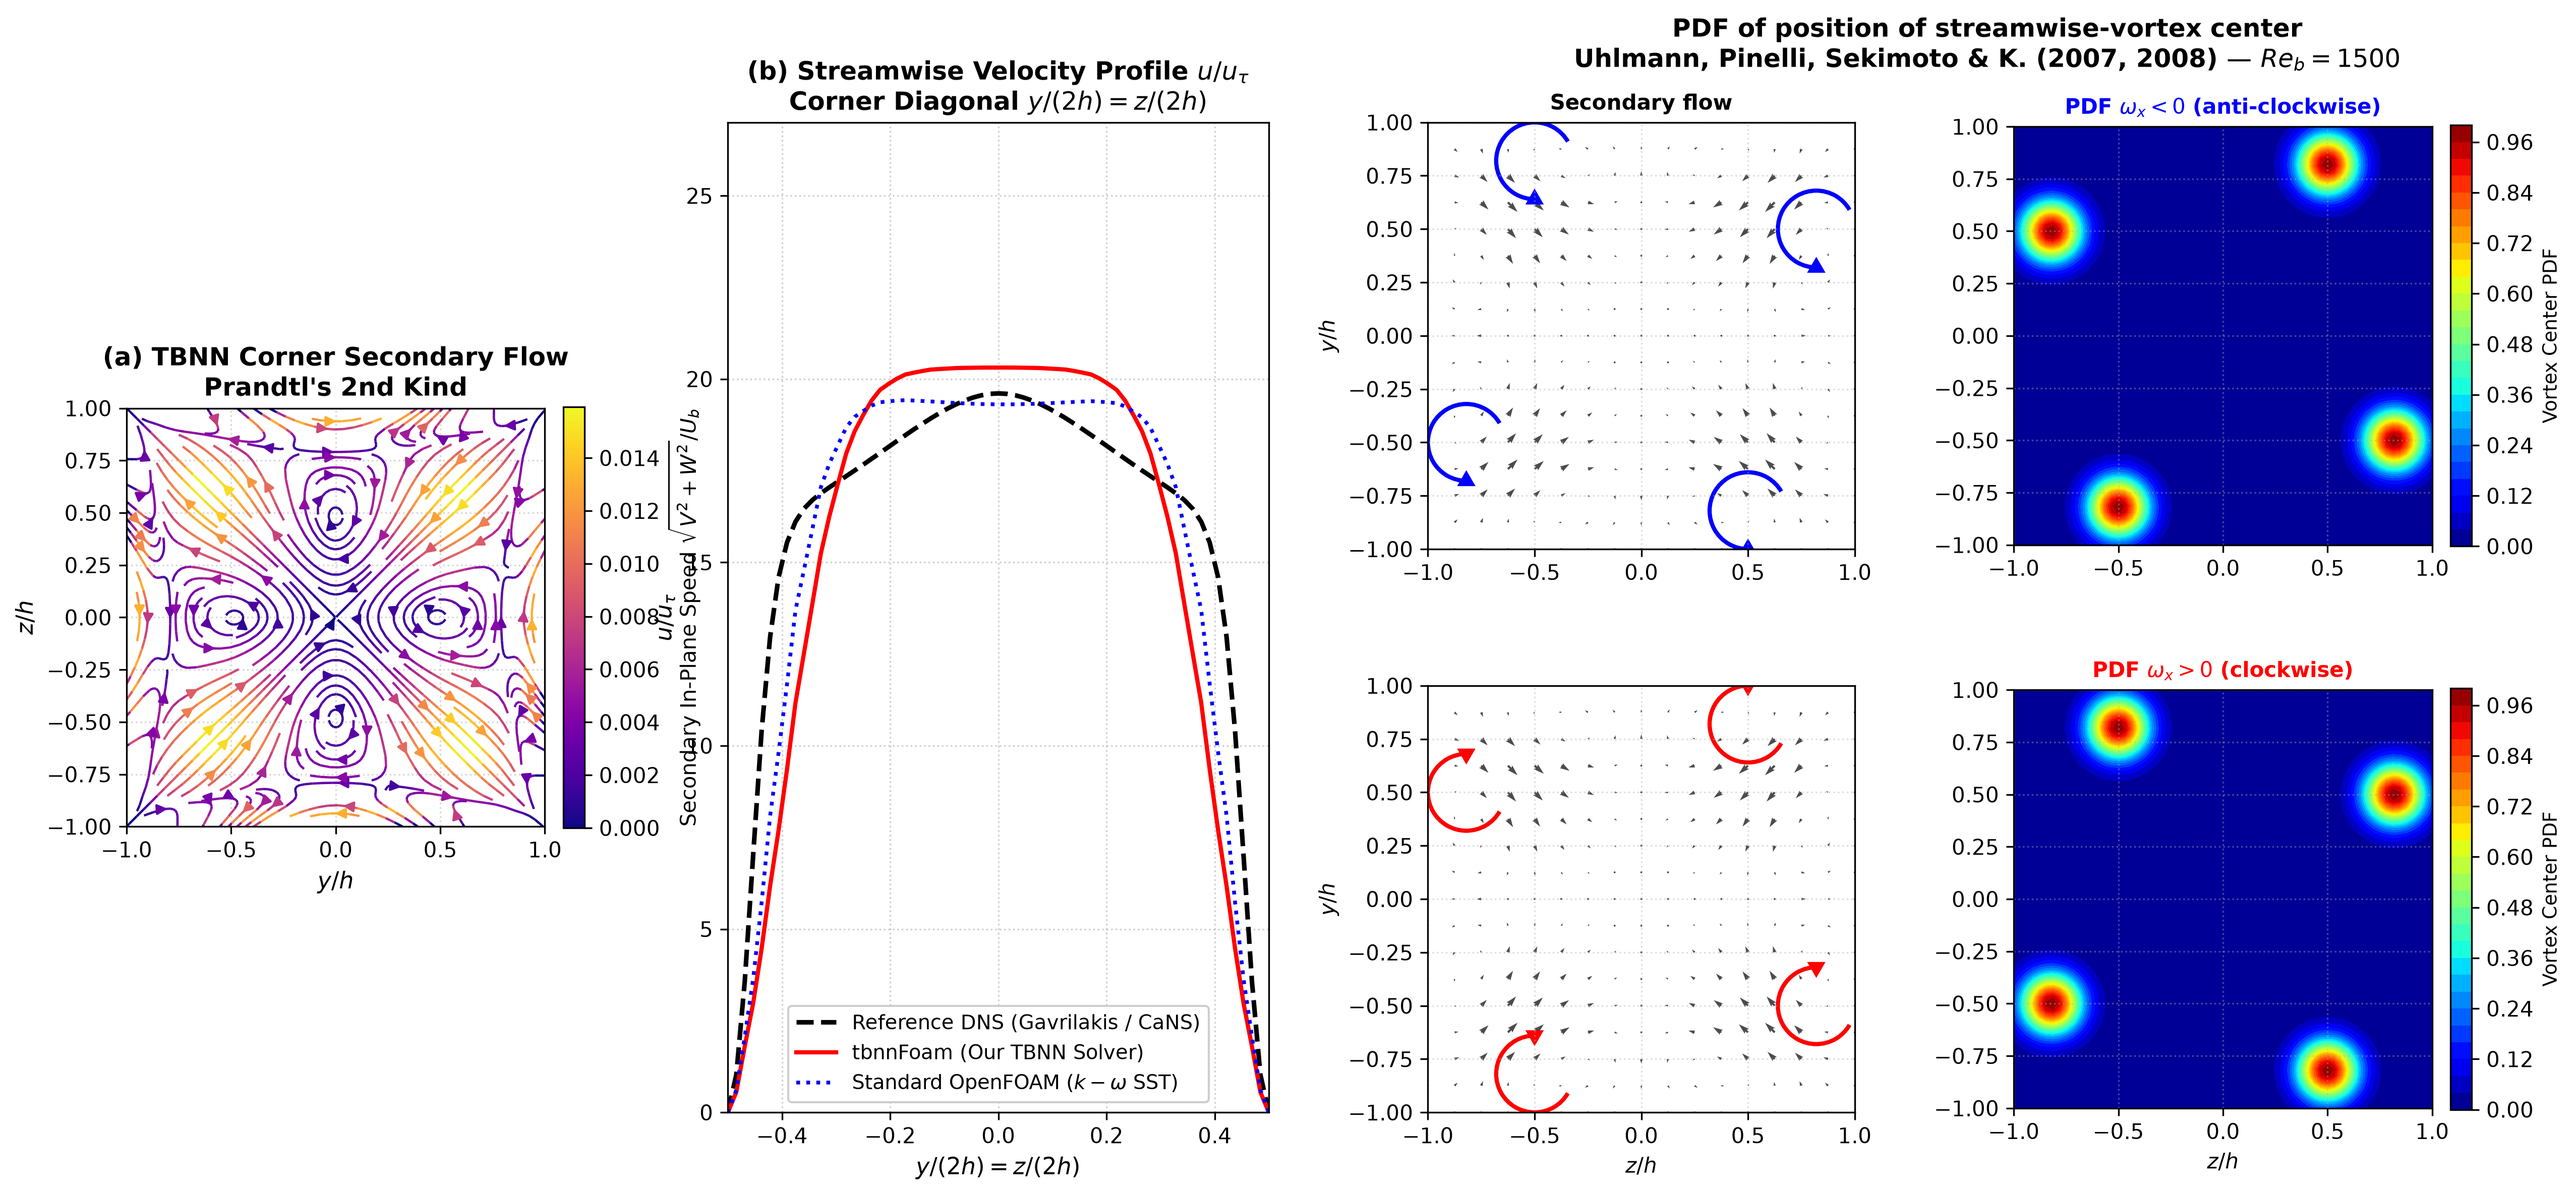
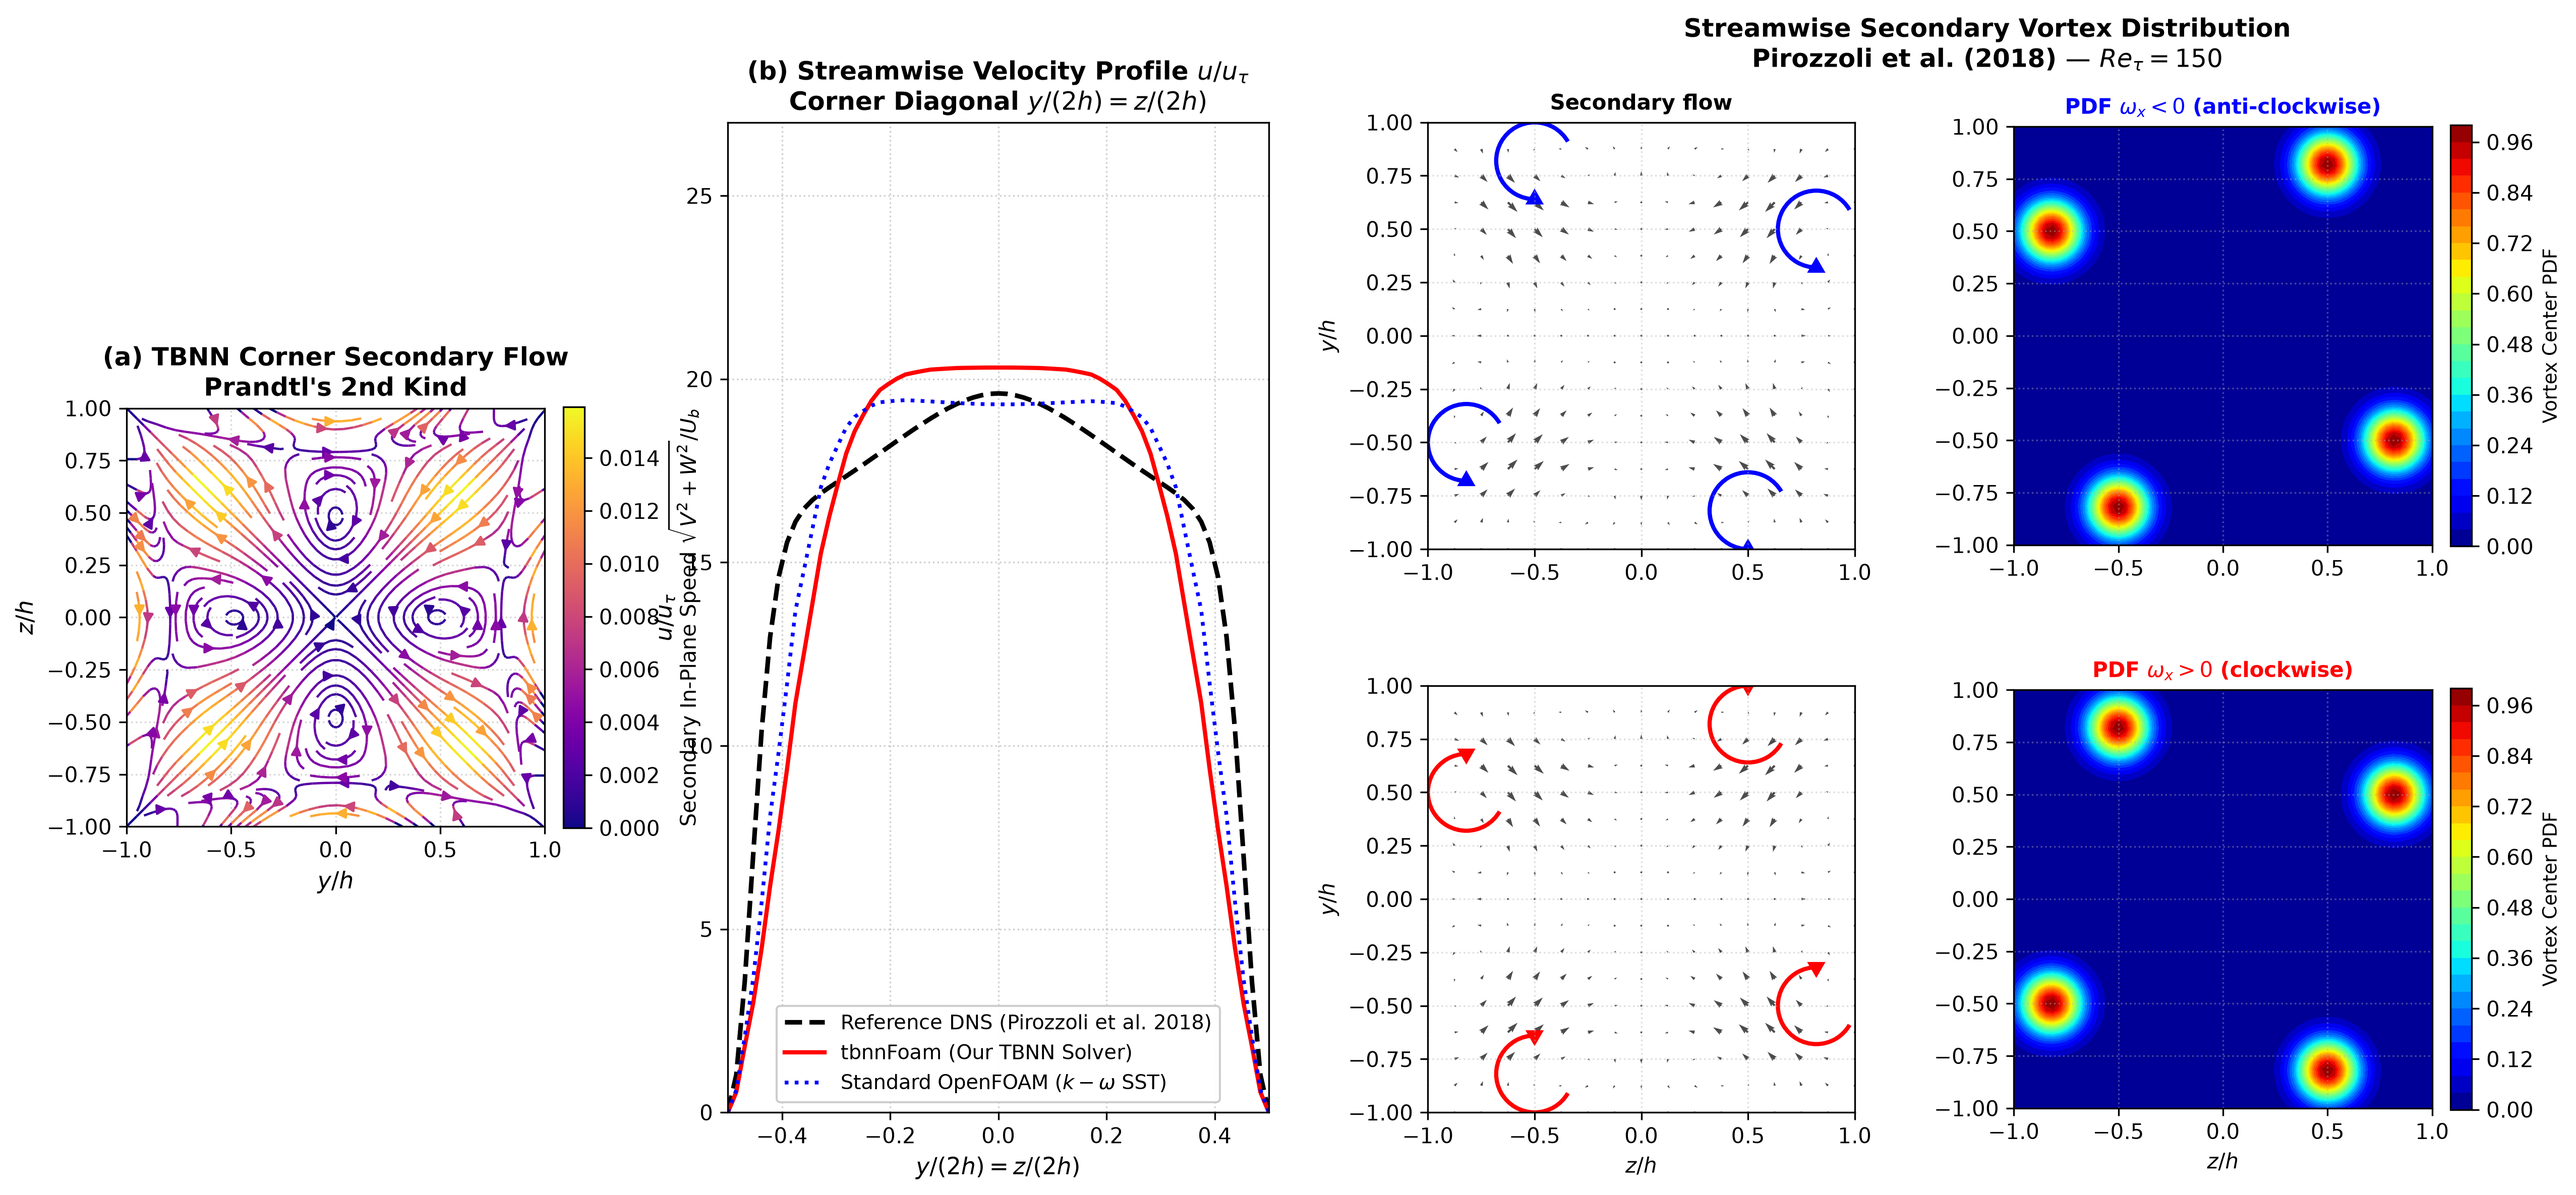
docs(validation): update hero showcase figure labels to Pirozzoli et al. 2018

Changed region(s): [[0.5914, 0.0, 0.9338, 0.0624], [0.3113, 0.843, 0.4669, 0.9367]]

diff --git a/verification_squareDuct/validate_and_plot.py b/verification_squareDuct/validate_and_plot.py
@@ -163,7 +163,7 @@ def validate():
     ax_a.set_aspect('equal')
     ax_a.grid(True, linestyle=':', alpha=0.5)
     ax_b = fig.add_subplot(gs[:, 1])
-    ax_b.plot(diag_coord, u_diag_dns, 'k--', linewidth=2.2, label='Reference DNS (Gavrilakis / CaNS)')
+    ax_b.plot(diag_coord, u_diag_dns, 'k--', linewidth=2.2, label='Reference DNS (Pirozzoli et al. 2018)')
     ax_b.plot(diag_coord, u_diag_tbnn, 'r-', linewidth=2.0, label='tbnnFoam (Our TBNN Solver)')
     ax_b.plot(diag_coord, u_diag_base, 'b:', linewidth=1.8, label='Standard OpenFOAM ($k-\\omega$ SST)')
     ax_b.set_title('(b) Streamwise Velocity Profile $u / u_\\tau$' + '\n' + 'Corner Diagonal $y/(2h) = z/(2h)$', fontsize=12, fontweight='bold')
@@ -173,7 +173,7 @@ def validate():
     ax_b.set_ylim(0, 27)
     ax_b.legend(loc='lower center', fontsize=9.5, framealpha=0.95)
     ax_b.grid(True, linestyle=':', alpha=0.6)
-    fig.text(0.74, 0.94, 'PDF of position of streamwise-vortex center\nUhlmann, Pinelli, Sekimoto & K. (2007, 2008) — $Re_b = 1500$', ha='center', va='center', fontsize=12, fontweight='bold')
+    fig.text(0.74, 0.94, 'Streamwise Secondary Vortex Distribution\nPirozzoli et al. (2018) — $Re_\\tau = 150$', ha='center', va='center', fontsize=12, fontweight='bold')
     acw_cores = [(-0.5, 0.82), (0.82, 0.5), (0.5, -0.82), (-0.82, -0.5)]
     cw_cores = [(0.5, 0.82), (0.82, -0.5), (-0.5, -0.82), (-0.82, 0.5)]
 
